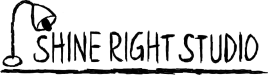
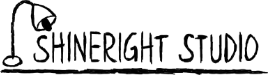
Updated title image. Fixed a typo.

diff --git a/content/privacy-policy.md b/content/privacy-policy.md
@@ -7,20 +7,20 @@ draft: false
 ---
 This private policy is effective as at 2017.10.29.
 
-## About us 
+## About
 I am a game developing hobbyist from Taiwan who can't live without making games. Shineright Studio is not a registered company anywhere in the world, so the legal rights and responsibilities of Shineright Studio are held by Yu Chao (趙佑), a natural person. To contact me, please email to [chaoyu@link.cuhk.edu.hk](mailto:chaoyu@link.cuhk.edu.hk).
 
 ## About the Policy 
-This policy describes how and why we collect, use, process and share information about you. This document may change from time to time. Please come back to this page to check the latest version of the policy. Any new policy will be effective from the date it is published by me.
+This policy describes how and why I collect, use, process and share information about you. This document may change from time to time. Please come back to this page to check the latest version of the policy. Any new policy will be effective from the date it is published by me.
 
 <br />
 
-This policy applies to all of my games, apps and this website. By downloading, playing my games and apps or interacting with this website, you agree to the use of your information in accordance with this privacy policy. If you do not wish to provide any information to me or let your information being used as described in this privacy policy, you should not use our games and apps or visit my website.
+This policy applies to all of my games, apps and this website. By downloading, playing my games and apps or interacting with this website, you agree to the use of your information in accordance with this privacy policy. If you do not wish to provide any information to me or let your information being used as described in this privacy policy, you should not use my games and apps or visit my website.
 
 <br />
 
 ## What types of information do I collect 
-I collect information only if you directly play our games, use my apps, or visit my website. Below are the details:
+I collect information only if you directly play my games, use my apps, or visit my website. Below are the details:
 
 <br />
 
@@ -32,4 +32,4 @@ I use [Unity Analytics](https://unity3d.com/unity/features/analytics) as my anal
 
 **Google Analytics**
 
-I use [Google Analytics](https://www.google.com/analytics/) as my analytics tool for this website. It tracks the region, time, viewing duration, operating system & browser used of you when you visit my website. This makes me easier to understand my target audiences and which type of articles to publish.
+I use [Google Analytics](https://www.google.com/analytics/) as my analytics tool for this website. It tracks the region, time, viewing duration, operating system & browser used when you visit my website. This makes me easier to understand my target audiences and which type of articles to publish.

diff --git a/content/posts/godot-scripted-tools.md b/content/posts/godot-scripted-tools.md
@@ -1,0 +1,7 @@
+---
+title: "Scripted Tools in Godot -- Custom Camera Frame in Scene Editor"
+date: 2017-01-18T18:43:00+08:00
+thumbnail: ""
+static_page: false
+draft: true
+---
